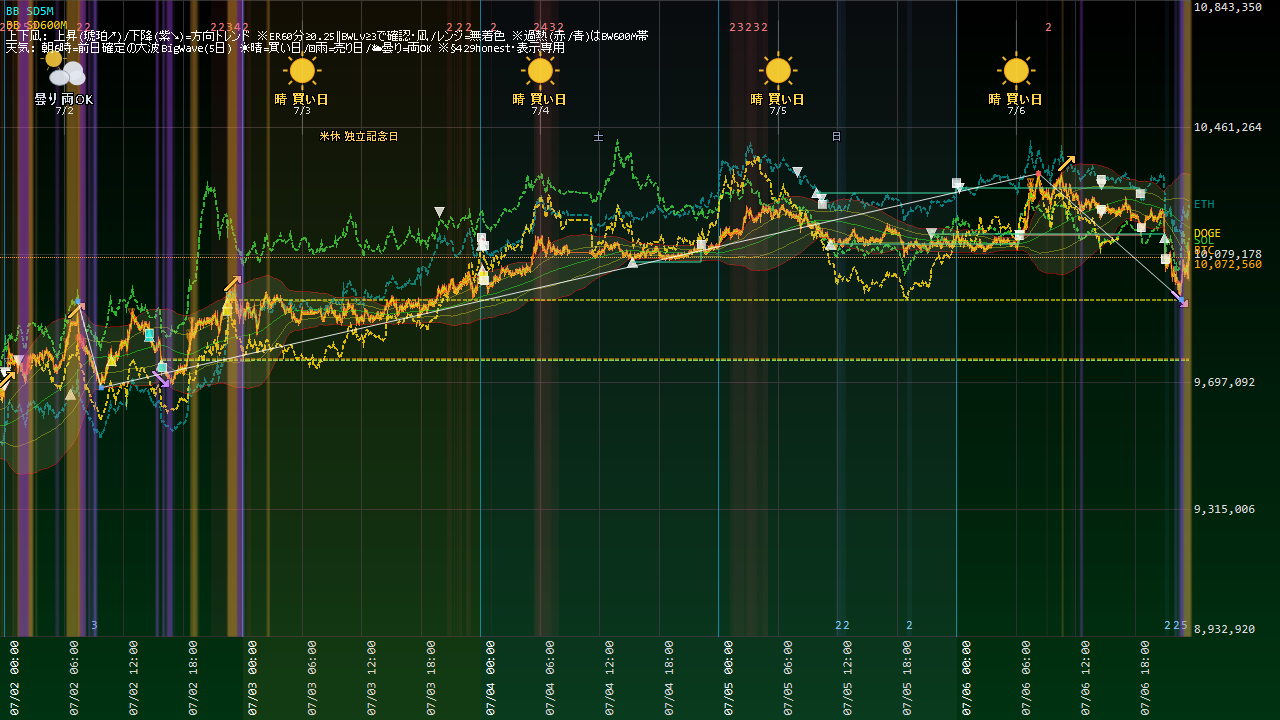
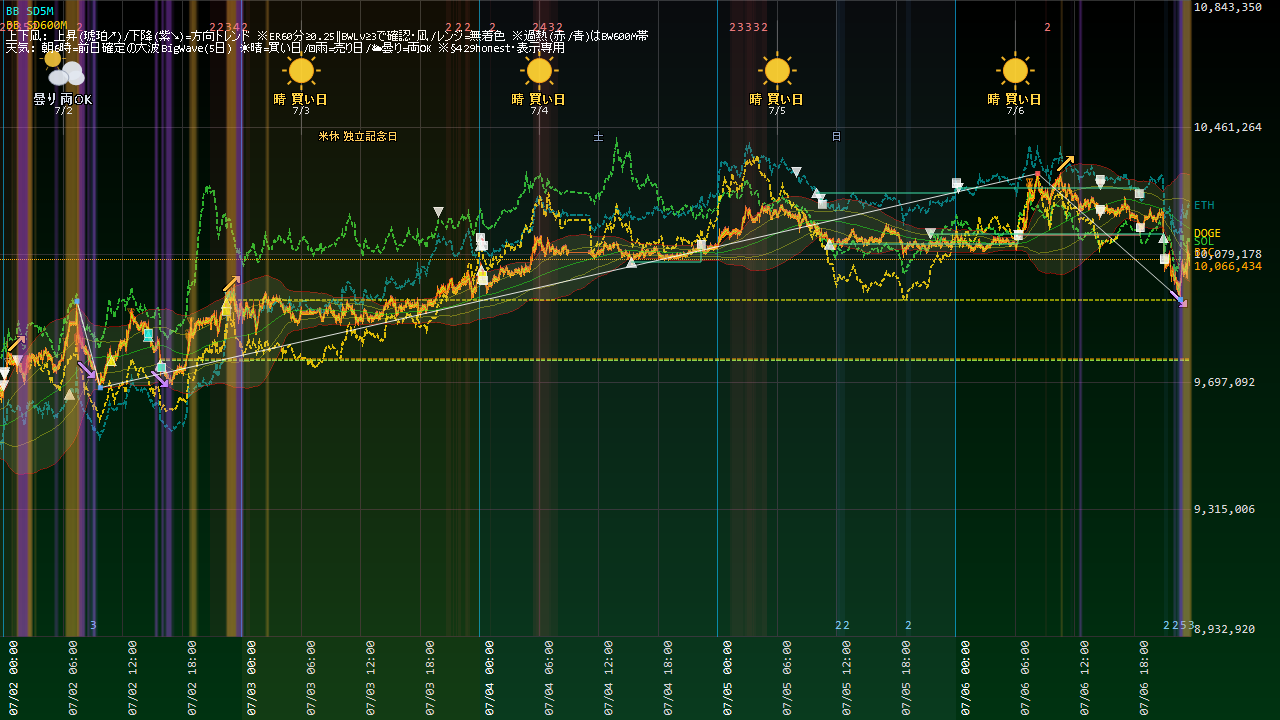
Coin100S 運用状況更新 07-06 23:44

diff --git a/coin100s-795hc4jfv8/status.html b/coin100s-795hc4jfv8/status.html
@@ -14,19 +14,19 @@ a{color:#60a5fa;text-decoration:none} a:hover{text-decoration:underline}
 .meta{color:#94a3b8;font-size:13px}</style>
 <meta http-equiv="refresh" content="300"></head><body>
 <h1>Coin100S 運用状況</h1>
-<p class="meta">スナップショット: 2026-07-06 23:38:38 / ページ生成: 2026-07-06 23:39:06(5分毎更新・自動リロード) / <a href="index.html">目次へ</a></p>
+<p class="meta">スナップショット: 2026-07-06 23:43:38 / ページ生成: 2026-07-06 23:44:06(5分毎更新・自動リロード) / <a href="index.html">目次へ</a></p>
 <div class="cards">
 <div class="card">建玉数<div class="v">7</div></div>
 <div class="card">本日損益<div class="v pos">+94円</div></div>
-<div class="card">評価損益<div class="v pos">+1,145円</div></div>
+<div class="card">評価損益<div class="v pos">+1,085円</div></div>
 </div>
 <h2>取引チャート(直近24h)</h2>
-<img src="status_chart.png?t=2339" alt="chart">
+<img src="status_chart.png?t=2344" alt="chart">
 <h2>建玉一覧</h2>
-<table><tr><th>銘柄</th><th>側</th><th>数量</th><th>建値</th><th>含損益</th><th>レッグ</th></tr><tr><td>ADA_JPY</td><td>SELL</td><td>320</td><td>@31</td><td>+490円</td><td>RELVAL_SELL</td></tr><tr><td>BCH_JPY</td><td>SELL</td><td>0.1</td><td>@39,606</td><td>+98円</td><td>RELVAL_SELL</td></tr><tr><td>BCH_JPY</td><td>SELL</td><td>0.1</td><td>@39,606</td><td>+98円</td><td>RELVAL_SELL</td></tr><tr><td>BTC_JPY</td><td>BUY</td><td>0.001</td><td>@10,131,087</td><td>-76円</td><td>SIGFADE_BTC</td></tr><tr><td>ETH_JPY</td><td>SELL</td><td>0.03</td><td>@287,845</td><td>+113円</td><td>RELVAL_SELL</td></tr><tr><td>LTC_JPY</td><td>SELL</td><td>1</td><td>@7,333</td><td>+148円</td><td>RELVAL_SELL</td></tr><tr><td>XRP_JPY</td><td>SELL</td><td>50</td><td>@187</td><td>+273円</td><td>RELVAL_SELL</td></tr></table>
+<table><tr><th>銘柄</th><th>側</th><th>数量</th><th>建値</th><th>含損益</th><th>レッグ</th></tr><tr><td>ADA_JPY</td><td>SELL</td><td>320</td><td>@31</td><td>+442円</td><td>RELVAL_SELL</td></tr><tr><td>BCH_JPY</td><td>SELL</td><td>0.1</td><td>@39,606</td><td>+97円</td><td>RELVAL_SELL</td></tr><tr><td>BCH_JPY</td><td>SELL</td><td>0.1</td><td>@39,606</td><td>+97円</td><td>RELVAL_SELL</td></tr><tr><td>BTC_JPY</td><td>BUY</td><td>0.001</td><td>@10,131,087</td><td>-58円</td><td>SIGFADE_BTC</td></tr><tr><td>ETH_JPY</td><td>SELL</td><td>0.03</td><td>@287,845</td><td>+100円</td><td>RELVAL_SELL</td></tr><tr><td>LTC_JPY</td><td>SELL</td><td>1</td><td>@7,333</td><td>+148円</td><td>RELVAL_SELL</td></tr><tr><td>XRP_JPY</td><td>SELL</td><td>50</td><td>@187</td><td>+259円</td><td>RELVAL_SELL</td></tr></table>
 <h2>本取引日の実取引(6:00起点)</h2>
 <table><tr><th>時刻</th><th>種別</th><th>側</th><th>銘柄</th><th>数量</th><th>指値</th></tr><tr><td>06:06:04</td><td>新規</td><td>SELL</td><td>LTC_JPY</td><td>1</td><td>7,331</td></tr><tr><td>06:06:04</td><td>新規</td><td>SELL</td><td>BCH_JPY</td><td>0.2</td><td>39,351</td></tr><tr><td>06:20:04</td><td>決済</td><td>SELL</td><td>BTC_JPY</td><td>0.001</td><td>10,106,854</td></tr><tr><td>06:23:03</td><td>新規</td><td>SELL</td><td>BTC_JPY</td><td>0.001</td><td>10,134,772</td></tr><tr><td>06:36:03</td><td>新規</td><td>SELL</td><td>BCH_JPY</td><td>0.2</td><td>39,586</td></tr><tr><td>14:36:00</td><td>新規</td><td>SELL</td><td>ETH_JPY</td><td>0.01</td><td>286,392</td></tr><tr><td>14:36:28</td><td>新規</td><td>SELL</td><td>BTC_JPY</td><td>0.001</td><td>10,202,518</td></tr><tr><td>14:39:33</td><td>決済</td><td>BUY</td><td>ETH_JPY</td><td>0.01</td><td>287,918</td></tr><tr><td>14:39:34</td><td>決済</td><td>BUY</td><td>ETH_JPY</td><td>0.01</td><td>287,918</td></tr><tr><td>14:39:34</td><td>決済</td><td>BUY</td><td>BTC_JPY</td><td>0.001</td><td>10,247,429</td></tr><tr><td>14:39:35</td><td>決済</td><td>BUY</td><td>BTC_JPY</td><td>0.001</td><td>10,247,429</td></tr><tr><td>18:33:04</td><td>決済</td><td>BUY</td><td>ETH_JPY</td><td>0.03</td><td>286,408</td></tr><tr><td>18:38:03</td><td>決済</td><td>BUY</td><td>BTC_JPY</td><td>0.001</td><td>10,191,674</td></tr><tr><td>18:38:04</td><td>決済</td><td>BUY</td><td>BTC_JPY</td><td>0.001</td><td>10,191,674</td></tr><tr><td>21:00:03</td><td>新規</td><td>BUY</td><td>BTC_JPY</td><td>0.001</td><td>10,142,519</td></tr><tr><td>21:00:04</td><td>新規</td><td>BUY</td><td>BTC_JPY</td><td>0.001</td><td>10,142,519</td></tr><tr><td>21:01:03</td><td>新規</td><td>BUY</td><td>ETH_JPY</td><td>0.03</td><td>285,213</td></tr><tr><td>21:01:04</td><td>新規</td><td>BUY</td><td>ETH_JPY</td><td>0.03</td><td>285,213</td></tr><tr><td>21:04:03</td><td>決済</td><td>BUY</td><td>SOL_JPY</td><td>0.7</td><td>12,977</td></tr><tr><td>21:04:04</td><td>決済</td><td>BUY</td><td>SOL_JPY</td><td>0.7</td><td>12,977</td></tr></table>
 <h2>現在レジーム(3軸・§570c)</h2>
-<ul><li>アルト対BTC 5日: <b>+269bps</b>(アルト優越=RELVAL逆風)</li><li>BTC ER240m: <b>0.087</b>(閾値0.25→レンジ(fade順風/BWTRD逆風))</li><li>BTC実現ボラ240m: <b>10.35</b> bps/分</li></ul>
+<ul><li>アルト対BTC 5日: <b>+269bps</b>(アルト優越=RELVAL逆風)</li><li>BTC ER240m: <b>0.072</b>(閾値0.25→レンジ(fade順風/BWTRD逆風))</li><li>BTC実現ボラ240m: <b>10.37</b> bps/分</li></ul>
 <hr><p class="meta">自動生成: tools/web_publish.py(§580・読み取り専用)。売買判断はアプリ本体。</p>
 </body></html>

diff --git a/coin100s-795hc4jfv8/index.html b/coin100s-795hc4jfv8/index.html
@@ -14,16 +14,16 @@ a{color:#60a5fa;text-decoration:none} a:hover{text-decoration:underline}
 .meta{color:#94a3b8;font-size:13px}</style>
 <meta http-equiv="refresh" content="300"></head><body>
 <h1>Coin100S ダッシュボード</h1>
-<p class="meta">スナップショット: 2026-07-06 23:38:38(5分毎更新・自動リロード)</p>
+<p class="meta">スナップショット: 2026-07-06 23:43:38(5分毎更新・自動リロード)</p>
 <div class="cards">
 <div class="card">建玉数<div class="v">7</div></div>
 <div class="card">本日損益<div class="v pos">+94円</div></div>
-<div class="card">評価損益<div class="v pos">+1,145円</div></div>
+<div class="card">評価損益<div class="v pos">+1,085円</div></div>
 </div>
 <h2>現在の建玉</h2>
-<table><tr><th>銘柄</th><th>側</th><th>数量</th><th>建値</th><th>含損益</th><th>レッグ</th></tr><tr><td>ADA_JPY</td><td>SELL</td><td>320</td><td>@31</td><td>+490円</td><td>RELVAL_SELL</td></tr><tr><td>BCH_JPY</td><td>SELL</td><td>0.1</td><td>@39,606</td><td>+98円</td><td>RELVAL_SELL</td></tr><tr><td>BCH_JPY</td><td>SELL</td><td>0.1</td><td>@39,606</td><td>+98円</td><td>RELVAL_SELL</td></tr><tr><td>BTC_JPY</td><td>BUY</td><td>0.001</td><td>@10,131,087</td><td>-76円</td><td>SIGFADE_BTC</td></tr><tr><td>ETH_JPY</td><td>SELL</td><td>0.03</td><td>@287,845</td><td>+113円</td><td>RELVAL_SELL</td></tr><tr><td>LTC_JPY</td><td>SELL</td><td>1</td><td>@7,333</td><td>+148円</td><td>RELVAL_SELL</td></tr><tr><td>XRP_JPY</td><td>SELL</td><td>50</td><td>@187</td><td>+273円</td><td>RELVAL_SELL</td></tr></table>
+<table><tr><th>銘柄</th><th>側</th><th>数量</th><th>建値</th><th>含損益</th><th>レッグ</th></tr><tr><td>ADA_JPY</td><td>SELL</td><td>320</td><td>@31</td><td>+442円</td><td>RELVAL_SELL</td></tr><tr><td>BCH_JPY</td><td>SELL</td><td>0.1</td><td>@39,606</td><td>+97円</td><td>RELVAL_SELL</td></tr><tr><td>BCH_JPY</td><td>SELL</td><td>0.1</td><td>@39,606</td><td>+97円</td><td>RELVAL_SELL</td></tr><tr><td>BTC_JPY</td><td>BUY</td><td>0.001</td><td>@10,131,087</td><td>-58円</td><td>SIGFADE_BTC</td></tr><tr><td>ETH_JPY</td><td>SELL</td><td>0.03</td><td>@287,845</td><td>+100円</td><td>RELVAL_SELL</td></tr><tr><td>LTC_JPY</td><td>SELL</td><td>1</td><td>@7,333</td><td>+148円</td><td>RELVAL_SELL</td></tr><tr><td>XRP_JPY</td><td>SELL</td><td>50</td><td>@187</td><td>+259円</td><td>RELVAL_SELL</td></tr></table>
 <p><a href="status.html"><b>▶ 運用状況の詳細(チャート・本日の取引・レジーム)</b></a></p>
 <h2>日報一覧</h2>
 <table><tr><th>取引日</th><th>実現損益</th><th>総括</th></tr><tr><td><a href='reports/20260705_Coin100S日報.html'>2026-07-05</a></td><td class="pos">+0円</td><td class='meta'>実取引: 新規8件/決済3件、実現損益 +0円。⚠警告/エラー 2件（要確認）。</td></tr><tr><td><a href='reports/20260704_Coin100S日報.html'>2026-07-04</a></td><td class="pos">+0円</td><td class='meta'>実取引: 新規1件/決済2件、実現損益 +0円。⚠警告/エラー 2件（要確認）。</td></tr><tr><td><a href='reports/20260703_Coin100S日報.html'>2026-07-03</a></td><td class="pos">+0円</td><td class='meta'>実取引: 新規5件/決済4件、実現損益 +0円。⚠警告/エラー 15件（要確認）。</td></tr><tr><td><a href='reports/20260702_Coin100S日報.html'>2026-07-02</a></td><td class="pos">+0円</td><td class='meta'>実取引: 新規7件/決済5件、実現損益 +0円。シグナル却下17件（最多: SD120M_5M／トレンド方向ゲート(N分傾き上と不一致=逆張り方向のfade禁止)）。⚠警告/エラー 26件（要確認）。</td></tr><tr><td><a href='reports/20260701_Coin100S日報.html'>2026-07-01</a></td><td class="pos">+0円</td><td class='meta'>実取引: 新規14件/決済8件、実現損益 +0円。シグナル却下14件（最多: SD120M_5M／ボラ軸ゲート(SDN%&amp;gt;N%=高ボラ/荒れレンジ)）。⚠警告/エラー 2件（要確認）。</td></tr><tr><td><a href='reports/20260630_Coin100S日報.html'>2026-06-30</a></td><td class="pos">+0円</td><td class='meta'>実取引: 新規0件/決済1件、実現損益 +0円。シグナル却下29件（最多: 微5M／当日枠N）。警告/孤児/エラーなし＝健全。</td></tr></table>
-<hr><p class="meta">更新: 2026-07-06 23:39:06 / 自動生成: tools/web_publish.py(§580)</p>
+<hr><p class="meta">更新: 2026-07-06 23:44:06 / 自動生成: tools/web_publish.py(§580)</p>
 </body></html>
